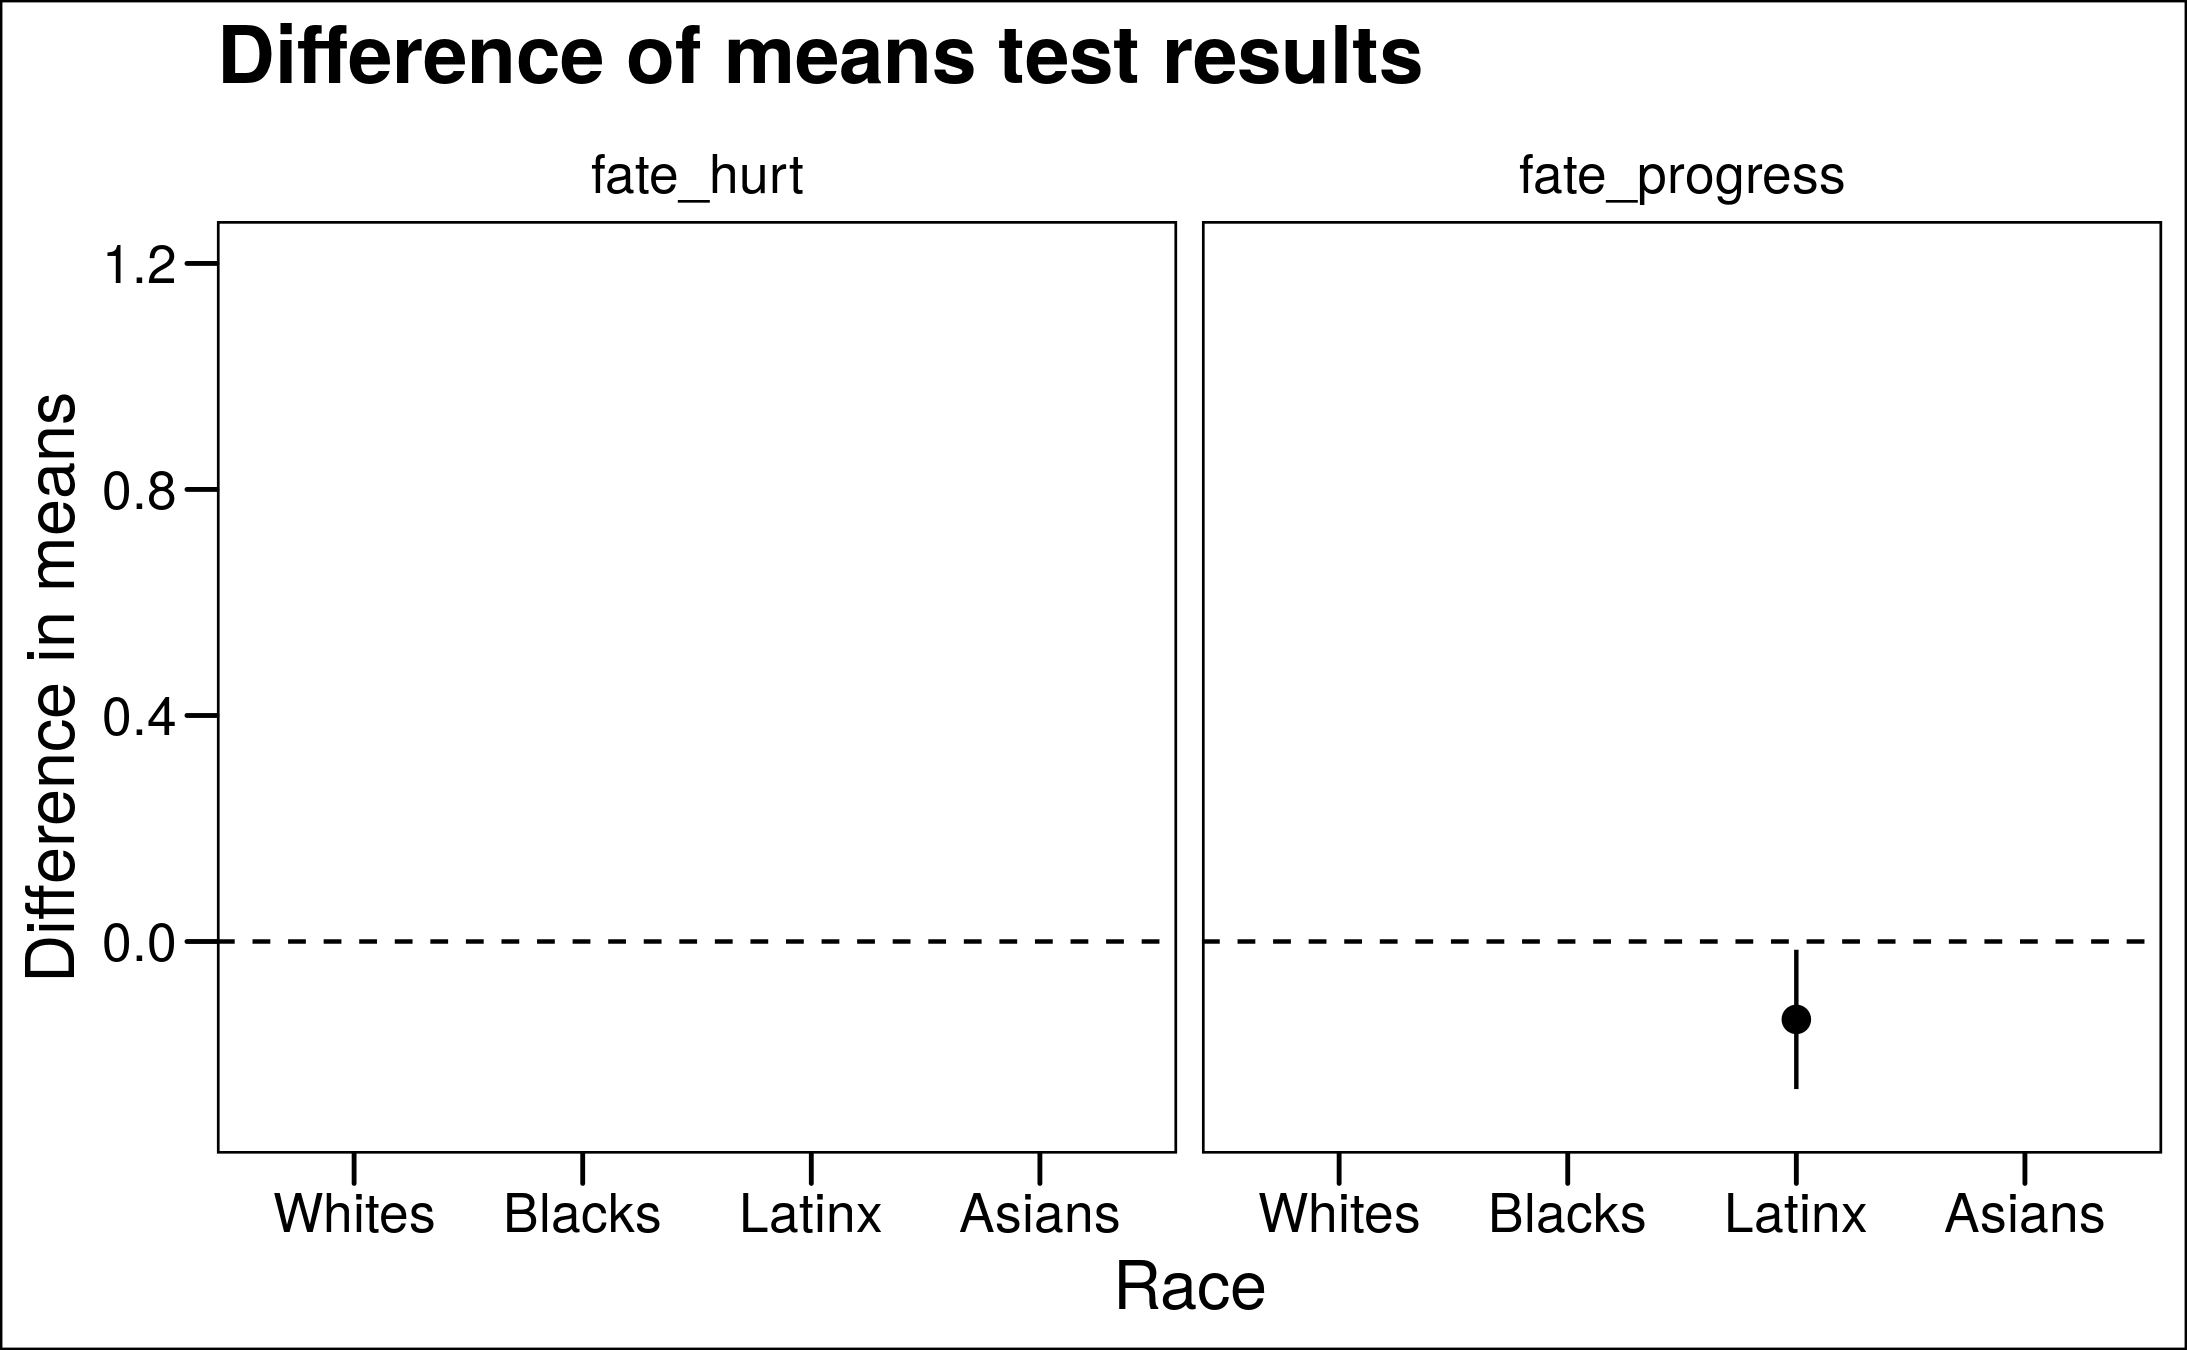
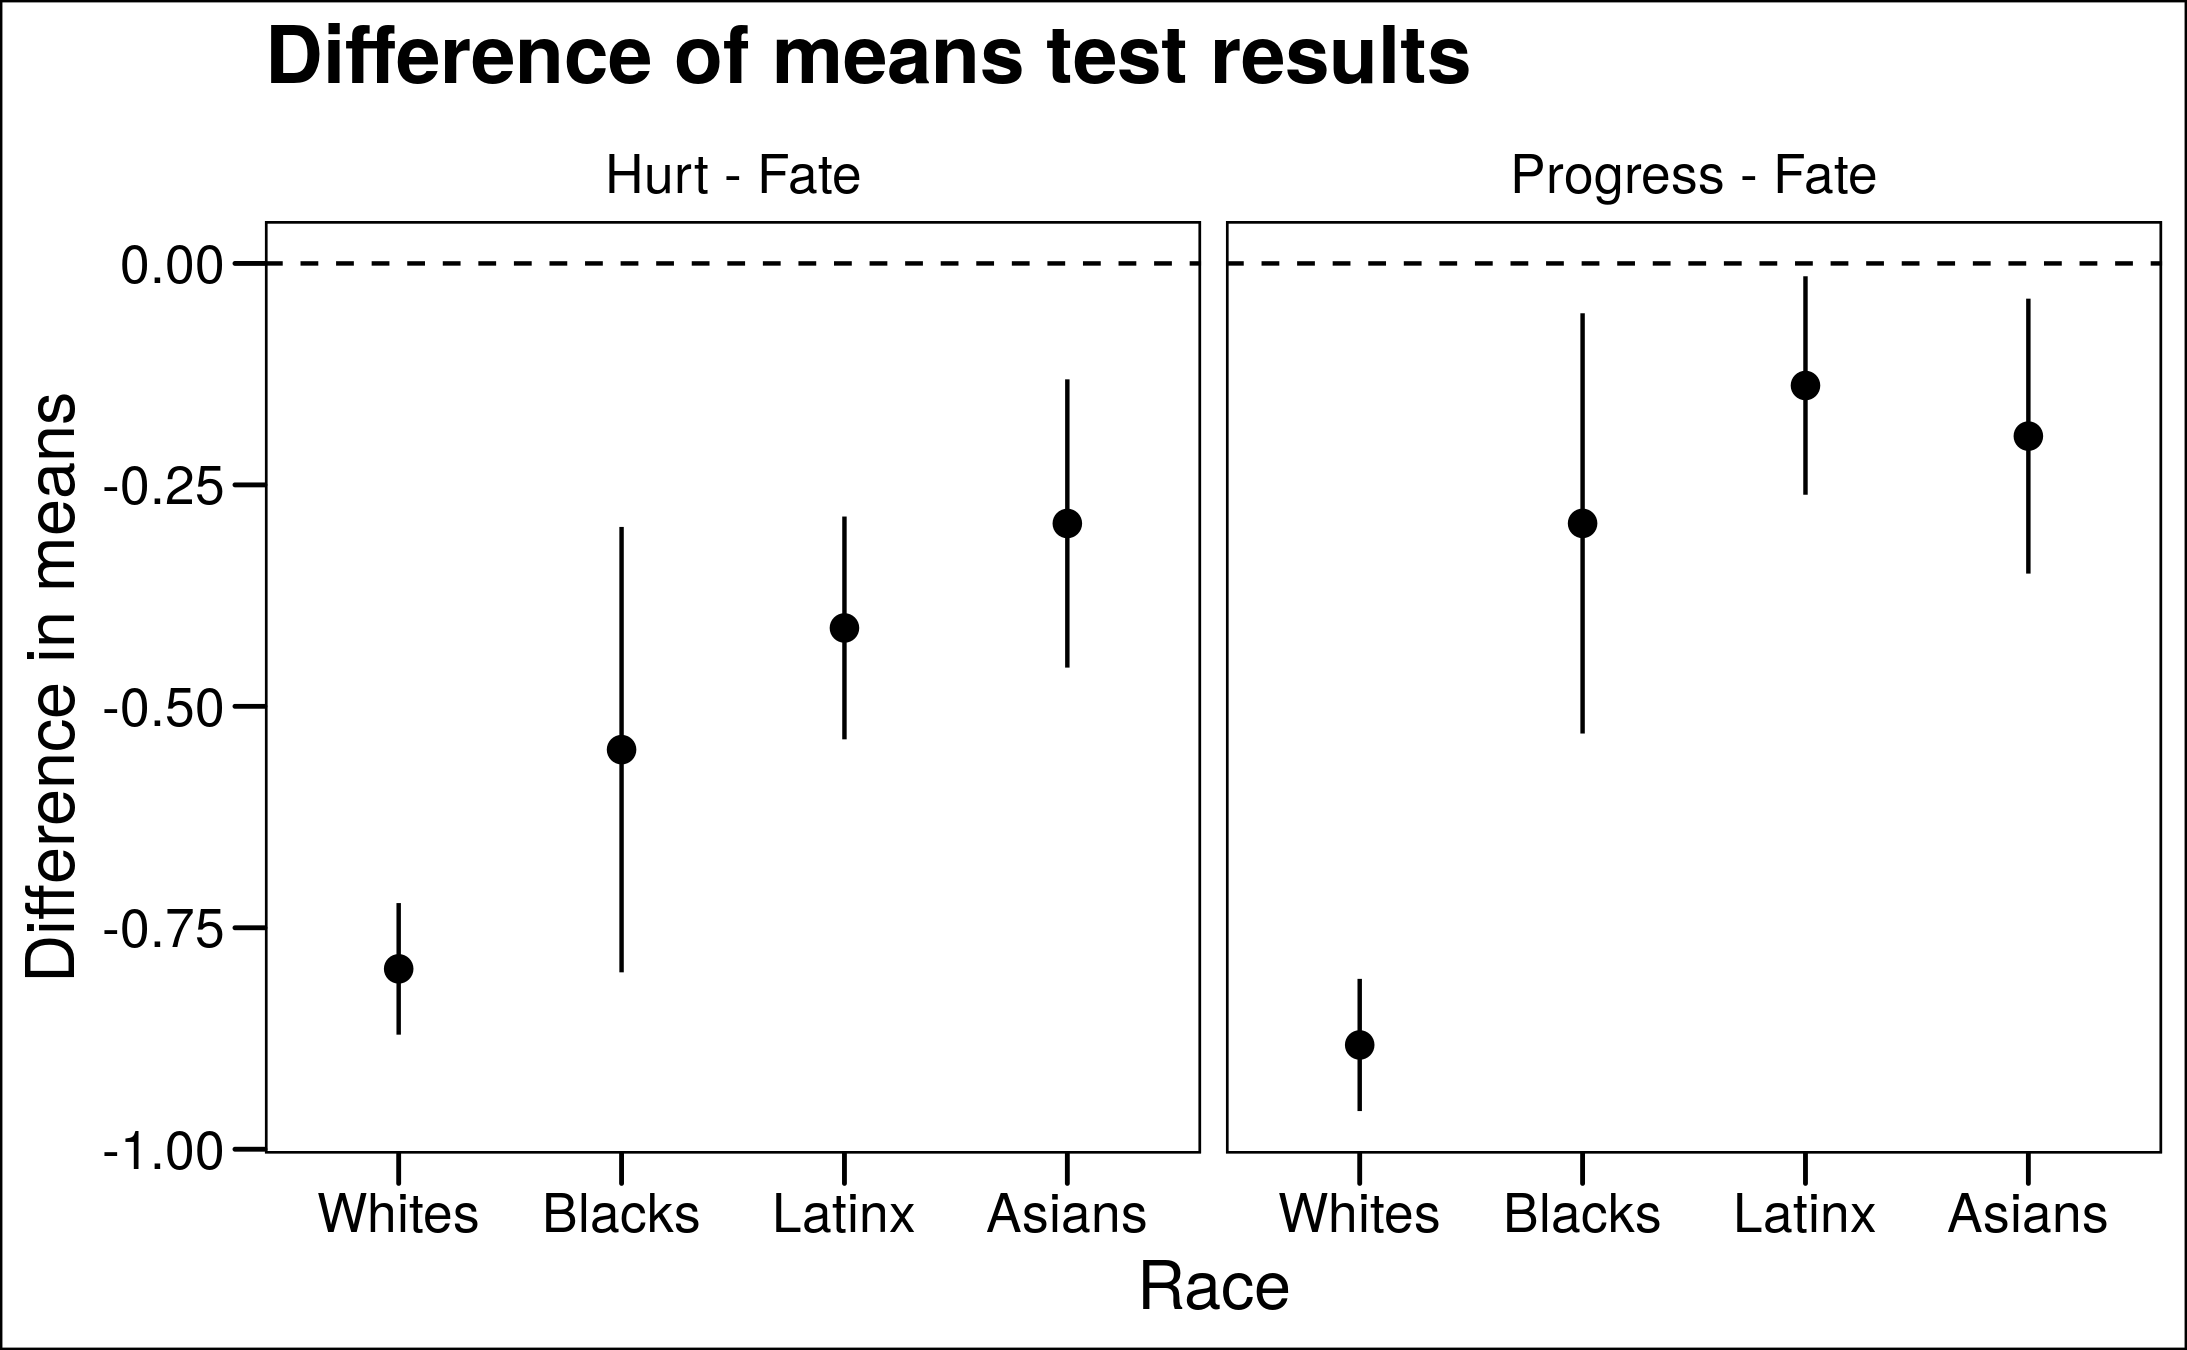
diff in means plot

diff --git a/README.md b/README.md
@@ -88,6 +88,8 @@ Figure 4. Correlation tests results
 
 #### Difference of means test
 
+Finally, I would like to revist Figure 1 and illustrate the consquence of using the standard linked fate question over the more specific ones more clearly. Here fate_hurt shows the mean difference between the responses of the linked hurt question and those of the standard linked fate qeustion. Similarly, fate_progress shows that the mean difference between the responses of the linked progress question and those of the standard linked fate qeustion. X-axis indicates different racial groups. Y-axis indicates difference in means. 
+
 ![](https://github.com/jaeyk/validating-two-linked-fates/blob/master/outputs/diff_in_means_plot.png)
 Figure 5. Difference of means test results
 
